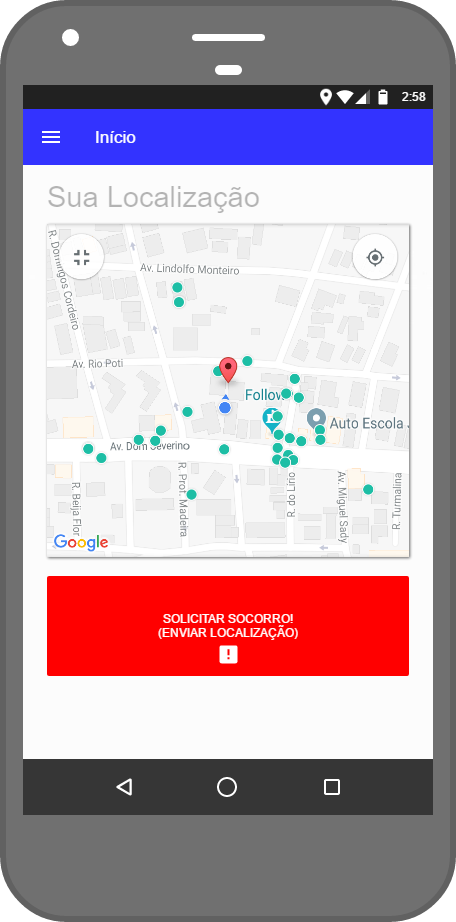
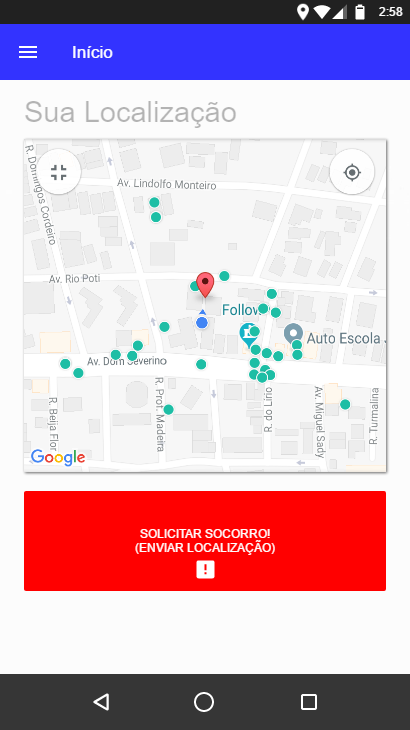
update

diff --git a/index.html b/index.html
@@ -3,91 +3,54 @@
 <head>
     <meta http-equiv="Content-Type" content="text/html; charset=UTF-8" />
     <meta name="viewport" content="width=device-width, initial-scale=1" />
-    <link rel="icon" href="pages/icon2.png">
     <title>Safe Motocus</title>
     <script type="text/javascript" src="Resources/Script.js">
                     //
     </script>
-    <style>
-        nav {
-            width: 955px;
-            background-color: rgb(0, 0, 0)
-        }
-
-        nav ul {
-            list-style: none;
-            margin: 0;
-            padding: 4px
-        }
-
-        nav ul li {
-            display: inline-block
-        }
-
-        nav ul li a {
-            font-size: 0.85em;
-            text-decoration: none;
-            color: #FFF;
-            padding: 4px 20px
-        }
-
-        nav ul li a:hover {
-            background-color: #B4531A
-        }
-    </style>
 </head>
 
 <body>
-    <div>
-        <nav>
-            <ul class="nav nav-pills nav-stacked" data-spy="affix" data-offset-top="0">
-                <li class="active"><a href="#tela_de_abertura_page" title="Go to page 'Tela de abertura'">Tela de
-                        abertura</a></li>
-                <li class="active"><a href="#tela_login_page" title="Go to page 'Tela Login'">Tela Login</a></li>
-                <li class="active"><a href="#tela_cadastro_page" title="Go to page 'Tela Cadastro'">Tela Cadastro</a></li>
-                <li class="active"><a href="#tela_inicial_page" title="Go to page 'Tela Inicial'">Tela Inicial</a></li>
-                <li class="active"><a href="#tela_menu_page" title="Go to page 'Tela Menu'">Tela Menu</a></li>
-                <li class="active"><a href="#tela_de_solicita_page" title="Go to page 'Tela Menu'">Tela de Solicitação</a></li>
-            </ul>
-        </nav>
-    </div>
     <div id="page">
         <div id="content">
             <div class="Page" id="tela_de_abertura_page">
                 <div class="Image"><img src="pages\tela_de_abertura.png" usemap="#map_tela_de_abertura" id="tela_de_abertura_page_image" />
-                    <div class="ImageFooter"> </div><map name="map_tela_de_abertura"><area shape="rect" coords="23,109,433,759"
+                    <div class="ImageFooter"> </div><map name="map_tela_de_abertura"><area shape="rect" coords="0,24,410,674"
                             href="#tela_login_page" /></map>
                 </div>
             </div>
             <div class="Page" id="tela_login_page">
                 <div class="Image"><img src="pages\tela_login.png" usemap="#map_tela_login" id="tela_login_page_image" />
-                    <div class="ImageFooter"> </div><map name="map_tela_login"><area shape="rect" coords="23,709,433,759"
-                            href="#tela_cadastro_page" /><area shape="rect" coords="46,499,408,549" href="#tela_inicial_page" /></map>
+                    <div class="ImageFooter"> </div><map name="map_tela_login"><area shape="rect" coords="0,624,410,674"
+                            href="#tela_cadastro_page" /><area shape="rect" coords="23,414,385,464" href="#tela_inicial_page" /><area
+                            shape="rect" coords="0,674,410,730" onclick="history.back(-1)" /></map>
                 </div>
             </div>
             <div class="Page" id="tela_cadastro_page">
                 <div class="Image"><img src="pages\tela_cadastro.png" usemap="#map_tela_cadastro" id="tela_cadastro_page_image" />
-                    <div class="ImageFooter"> </div><map name="map_tela_cadastro"><area shape="rect" coords="47,687,409,737"
-                            href="#tela_login_page" /></map>
+                    <div class="ImageFooter"> </div><map name="map_tela_cadastro"><area shape="rect" coords="24,602,386,652"
+                            href="#tela_login_page" /><area shape="rect" coords="0,674,410,730" onclick="history.back(-1)" /></map>
                 </div>
             </div>
             <div class="Page" id="tela_inicial_page">
                 <div class="Image"><img src="pages\tela_inicial.png" usemap="#map_tela_inicial" id="tela_inicial_page_image" />
-                    <div class="ImageFooter"> </div><map name="map_tela_inicial"><area shape="rect" coords="47,576,409,676"
-                            href="#tela_de_solicita_page" /><area shape="rect" coords="23,109,433,165" href="#tela_menu_page" /></map>
-                </div>
-            </div>
-            <div class="Page" id="tela_de_solicita_page">
-                <div class="Image"><img src="pages\tela_de_solicita.png" usemap="#map_tela_de_solicita" id="tela_de_solicita_page_image" />
-                    <div class="ImageFooter"> </div><map name="map_tela_de_solicita"><area shape="rect" coords="68,326,388,526"
-                            href="#tela_inicial_page" /><area shape="rect" coords="23,109,433,165" href="#tela_menu_page" /></map>
+                    <div class="ImageFooter"> </div><map name="map_tela_inicial"><area shape="rect" coords="24,491,386,591"
+                            href="#tela_de_solicita_page" /><area shape="rect" coords="0,24,410,80" href="#tela_menu_page" /><area
+                            shape="rect" coords="0,674,410,730" onclick="history.back(-1)" /></map>
                 </div>
             </div>
             <div class="Page" id="tela_menu_page">
                 <div class="Image"><img src="pages\tela_menu.png" usemap="#map_tela_menu" id="tela_menu_page_image" />
-                    <div class="ImageFooter"> </div><map name="map_tela_menu"><area shape="rect" coords="23,341,273,429"
-                            href="#tela_login_page" /><area shape="rect" coords="23,245,273,333" href="#tela_cadastro_page" /><area
-                            shape="rect" coords="23,165,433.000030517578,757" href="#tela_inicial_page" /></map>
+                    <div class="ImageFooter"> </div><map name="map_tela_menu"><area shape="rect" coords="0,256,250,344"
+                            href="#tela_login_page" /><area shape="rect" coords="0,160,250,248" href="#tela_cadastro_page" /><area
+                            shape="rect" coords="0,674,410,730" onclick="history.back(-1)" /><area shape="rect" coords="0,80,410.000030517578,672"
+                            href="#tela_inicial_page" /></map>
+                </div>
+            </div>
+            <div class="Page" id="tela_de_solicita_page">
+                <div class="Image"><img src="pages\tela_de_solicita.png" usemap="#map_tela_de_solicita" id="tela_de_solicita_page_image" />
+                    <div class="ImageFooter"> </div><map name="map_tela_de_solicita"><area shape="rect" coords="45,241,365,441"
+                            href="#tela_inicial_page" /><area shape="rect" coords="0,24,410,80" href="#tela_menu_page" /><area
+                            shape="rect" coords="0,674,410,730" onclick="history.back(-1)" /></map>
                 </div>
             </div>
         </div>

diff --git a/Resources/Script.js b/Resources/Script.js
@@ -2,42 +2,42 @@ var pages = [];
 var pageMap = {};
 var lastShownPageId = null;
 
-function setup () {
+function setup() {
     var style = document.createElement("link");
     style.setAttribute("rel", "stylesheet");
     style.setAttribute("href", "Resources/Style.css");
     document.getElementsByTagName("head")[0].appendChild(style);
-    
+
     var content = document.getElementById("content");
     var children = content.childNodes;
-    
-    for (var i = 0; i < children.length; i ++) {
+
+    for (var i = 0; i < children.length; i++) {
         var child = children[i];
         if (child.className != "Page") continue;
-        
-        
+
+
         var page = {
             id: child.id,
             element: child,
             index: pages.length
         };
-        
+
         pages.push(page);
         pageMap[page.id] = page;
     }
-    
+
 };
 
 function showPage(id) {
     var page = pageMap[id];
     if (!page) return;
-    
-    for (var i = 0; i < pages.length; i ++) {
+
+    for (var i = 0; i < pages.length; i++) {
         pages[i].element.className = "Page";
     }
-    
+
     page.element.className = "Page TargetPage";
-      
+
     lastShownPageId = id;
 };
 

diff --git a/Resources/Style.css b/Resources/Style.css
@@ -47,7 +47,6 @@ body {
     margin: auto;
     border: none;
     position: absolute;
-    top: 30px;
     right: 0;
     left: 0;
 }
